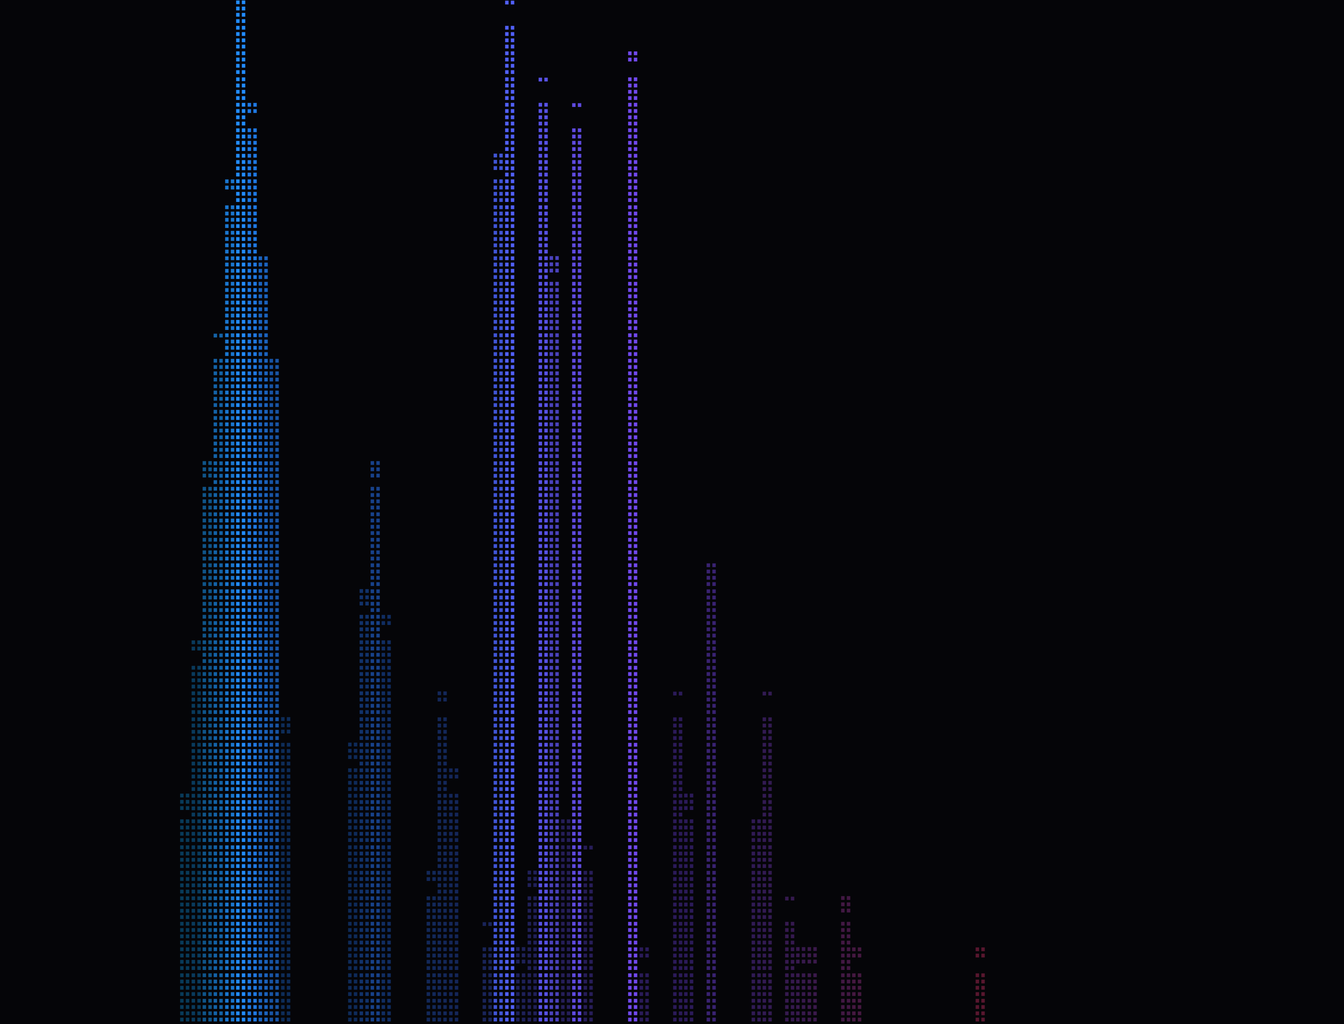
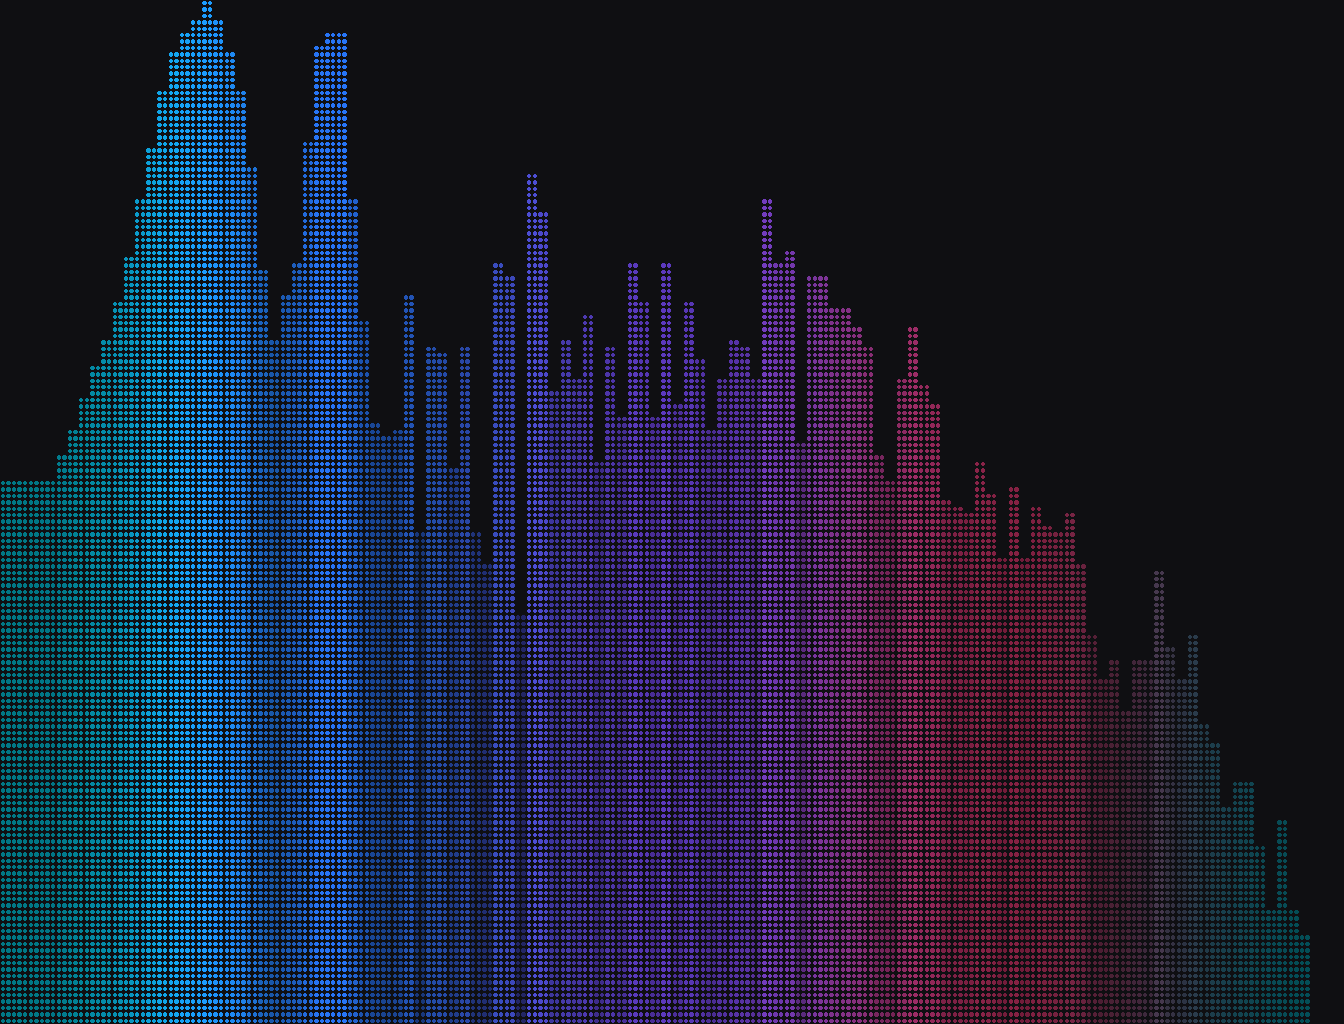
Use a decibel scale for the spectrum
Peak-normalizing linear magnitudes left only the loudest bass bands
visible, so music looked like a handful of spires instead of the dense
NoctaVox landscape. Map each band over a 72 dB window below the frame
peak: frequencies stay on the same logarithmic axis and a tone is still
one column, but cymbals and quiet parts of a mix no longer disappear next
to the kick drum.

Regenerate docs/spectrum.png from the live renderer at 120x40.

Changed region(s): [[0.0, 0.0, 0.9688, 1.0]]

diff --git a/src/spectrum.rs b/src/spectrum.rs
@@ -8,8 +8,8 @@
 //! * NoctaVox auto-gains every band against its *own* running peak. A tone then
 //!   lifts its window sidelobes and the noise floor to the same height as the
 //!   tone itself, smearing one frequency across many columns. Here every frame
-//!   is normalized against its loudest band, so a tone stays a narrow spike and
-//!   the relative shape of the spectrum survives.
+//!   is normalized against its loudest band and mapped in decibels, so a tone
+//!   stays a narrow spike while quiet parts of a mix stay visible.
 //! * NoctaVox spreads its `bands` vector evenly over the display. That vector is
 //!   only roughly logarithmic: below ~430 Hz every band is one FFT bin wide, so
 //!   1 kHz lands well left of where a logarithmic axis puts it. This version maps
@@ -42,9 +42,10 @@ const BAND_RATIO: f32 = 1.05;
 /// Smallest frame peak, so digital silence cannot divide by zero.
 const PEAK_FLOOR: f32 = 1e-4;
 
-/// Display curve. A gentle 0.75 power keeps quiet high frequencies visible
-/// without turning a single tone's window main lobe into a wide fan.
-const LEVEL_CURVE: f32 = 0.75;
+/// Display curve. The spectrum is plotted in decibels below the loudest band
+/// in the frame: a 72 dB window keeps the quiet parts of a mix visible while a
+/// single tone still reads as a narrow spike instead of a wall.
+const DYNAMIC_RANGE_DB: f32 = 72.0;
 
 #[derive(Debug, Clone, Copy)]
 struct Band {
@@ -74,7 +75,7 @@ pub struct Spectrum {
     /// The decaying bar heights that are drawn.
     bins: Vec<f32>,
     display: Vec<f32>,
-    /// The loudest band in the current frame, used to normalize all bands.
+    /// The loudest band in the current frame, used as the dB reference.
     peak: f32,
     decay: f32,
     sample_rate: u32,
@@ -175,10 +176,14 @@ impl Spectrum {
         // reach full scale.
         self.peak = loudest.max(PEAK_FLOOR);
 
+        // Map each band's level logarithmically over a fixed window below the
+        // frame peak. Linear magnitudes make cymbals and strings vanish next to
+        // a kick drum; decibels keep the whole mix visible without giving every
+        // band its own gain.
+        let peak_db = 20.0 * self.peak.log10();
         for (index, bin) in self.bins.iter_mut().enumerate() {
-            let relative = (self.magnitudes[index] / self.peak)
-                .clamp(0.0, 1.0)
-                .powf(LEVEL_CURVE);
+            let level_db = 20.0 * self.magnitudes[index].max(1e-9).log10();
+            let relative = level_from_db(level_db, peak_db);
             if relative >= *bin {
                 *bin = relative;
             } else {
@@ -302,6 +307,12 @@ impl Spectrum {
         self.display.clear();
         self.peak = PEAK_FLOOR;
     }
+}
+
+/// Map a band level in dBFS onto the display, where the frame peak is `1.0`
+/// and `DYNAMIC_RANGE_DB` below it is `0.0`.
+fn level_from_db(level_db: f32, peak_db: f32) -> f32 {
+    ((level_db - (peak_db - DYNAMIC_RANGE_DB)) / DYNAMIC_RANGE_DB).clamp(0.0, 1.0)
 }
 
 fn clamp_decay(decay: f32) -> f32 {
@@ -520,5 +531,17 @@ mod tests {
         assert_eq!(Spectrum::new(2.0).decay, 0.97);
         assert_eq!(Spectrum::new(0.0).decay, 0.7);
         assert_eq!(Spectrum::new(f32::NAN).decay, DEFAULT_DECAY);
+    }
+
+    #[test]
+    fn maps_decibels_onto_the_display_range() {
+        assert_eq!(level_from_db(0.0, 0.0), 1.0);
+        assert!((level_from_db(-36.0, 0.0) - 0.5).abs() < 1e-6);
+        assert_eq!(level_from_db(-72.0, 0.0), 0.0);
+        assert_eq!(level_from_db(-90.0, 0.0), 0.0);
+
+        // The window follows the loudest band in the frame.
+        assert_eq!(level_from_db(-10.0, -10.0), 1.0);
+        assert!((level_from_db(-46.0, -10.0) - 0.5).abs() < 1e-6);
     }
 }

diff --git a/src/config.rs b/src/config.rs
@@ -14,7 +14,7 @@ use crate::spectrum::DEFAULT_DECAY;
 #[derive(Debug, Clone, Copy, PartialEq, Eq, Deserialize, Default, clap::ValueEnum)]
 #[serde(rename_all = "snake_case")]
 pub enum Mode {
-    /// NoctaVox's auto-gained braille spectrum.
+    /// NoctaVox-style braille spectrum with a logarithmic frequency axis.
     #[default]
     Spectrum,
     /// Wide eighth-block bars with a vertical gradient.

diff --git a/README.md b/README.md
@@ -54,12 +54,14 @@ samples, folded into roughly 110 bands from 20 Hz to 20 kHz. (NoctaVox uses
 2048 points; doubling the window keeps the bass bands distinct.) Columns are
 placed on a logarithmic frequency axis, so 1 kHz sits 57% of the way across
 rather than wherever its band happens to fall, and each column shows the
-tallest band in its slice. Each frame is normalized against its loudest band, so
-a tone stays a narrow spike instead of every band flattening to full height; bars
-fall by the exponential decay factor once the energy drops. Values below 5% are
-hidden, like NoctaVox's canvas. Color comes from a horizontal gradient that dims
-toward black as the band gets quieter. Optional: `mirror = true` grows the bars
-above and below the center line, and `speed` scrolls the gradient.
+tallest band in its slice. Each frame is normalized against its loudest band and
+mapped in decibels over a 72 dB window: a tone stays a narrow spike, while
+cymbals and quiet parts of a mix stay visible instead of collapsing next to the
+kick drum. Bars fall by the exponential decay factor once the energy drops.
+Values below 5% are hidden, like NoctaVox's canvas. Color comes from a horizontal
+gradient that dims toward black as the band gets quieter. Optional:
+`mirror = true` grows the bars above and below the center line, and `speed`
+scrolls the gradient.
 
 ![The spectrum view in a 120x40 terminal](docs/spectrum.png)
 
